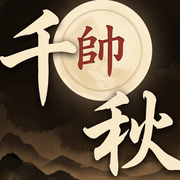
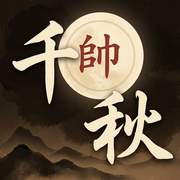
App 圖示改用方向 D 原稿（秋的捺筆尖完整、四邊留空），只補白角

diff --git a/sw.js b/sw.js
@@ -1,7 +1,7 @@
 // Service worker：
 // 1) 離線快取：App、古譜、引擎存在手機裡；神經網路檔（48 MB）放在另一個快取，更新 App 時不用重新下載
 // 2) 多執行緒：幫每個回應加上 COOP/COEP 標頭（WebAssembly 多執行緒需要「跨來源隔離」，GitHub Pages 自己不能設）
-const VERSION="20261105-1230";
+const VERSION="20261105-1255";
 const APP_CACHE="xqlab-app-"+VERSION,ENGINE_CACHE="xqlab-engine";
 const APP_FILES=["./","index.html","core.js","engine.js","local.js","manifest.json","icon.svg","icon-180.png","icon-512.png","icon-512-mask.png","qrcode.min.js","jsQR.min.js","net.js","zh.js","opencc-cn2t.js","opencc-t2cn.js","bot3d.js","park3d.js","engine/pikafish.js","engine/pikafish.wasm",
   "data/books.json","data/shiqingyaqu.json","data/juzhongmi.json","data/meihuapu.json","data/kaiju.json","data/canju.json","data/xuyinchuan.json","data/big-books.json","data/quiz.json","data/terms.json","data/gmbios.json","data/cars.json","three.min.js","map3d.js","data/park-legend.json","data/park-novel.json","data/preload.json"];   /* 意見回饋 422：3D 程式和故事也一起先存 */

diff --git a/index.html b/index.html
@@ -699,7 +699,7 @@ html[data-era=ming] .topbar,html[data-era=qing] .topbar{border-bottom-width:4px}
       if(!window.caches)return go();caches.keys().then(function(ks){return Promise.all(ks.filter(function(k){return k.indexOf("xqlab-app-")===0}).map(function(k){return caches.delete(k)}))})
         .then(function(){return navigator.serviceWorker&&navigator.serviceWorker.getRegistration()}).then(function(r){return r&&r.update()}).catch(function(){}).then(go)}};setTimeout(chk,4000)})();
 </script>
-<script>window.XQ_OFFLINE=true;window.XQ_BUILD="20261105-1230";</script>
+<script>window.XQ_OFFLINE=true;window.XQ_BUILD="20261105-1255";</script>
 <script src="core.js"></script>
 <script src="engine.js"></script>
 <script src="local.js"></script>
